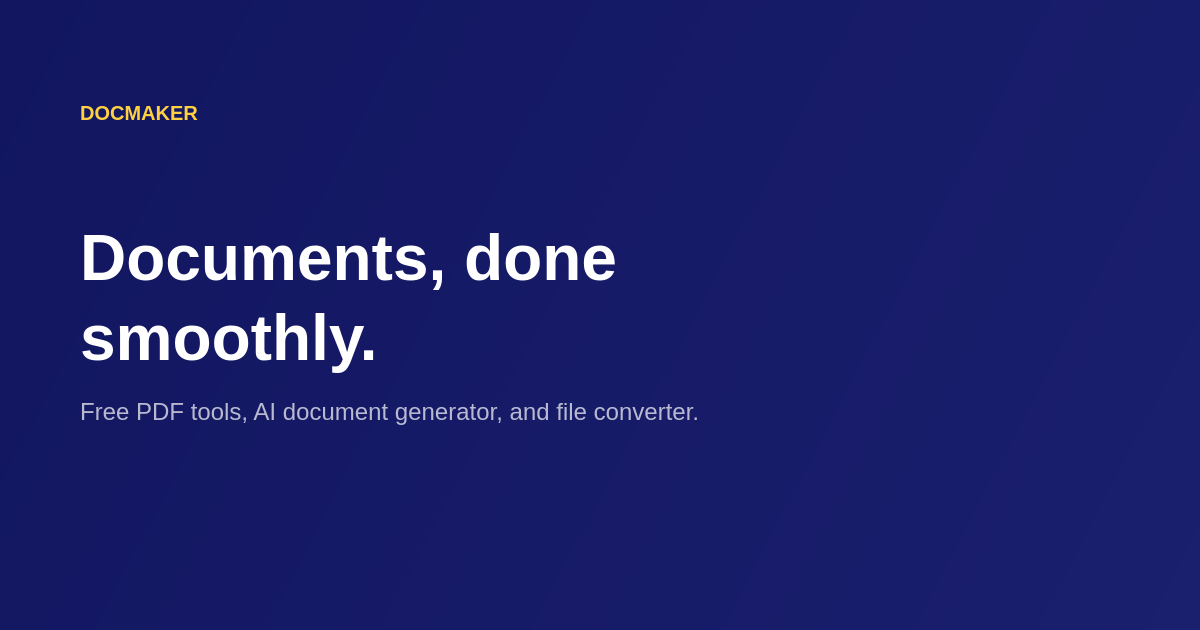
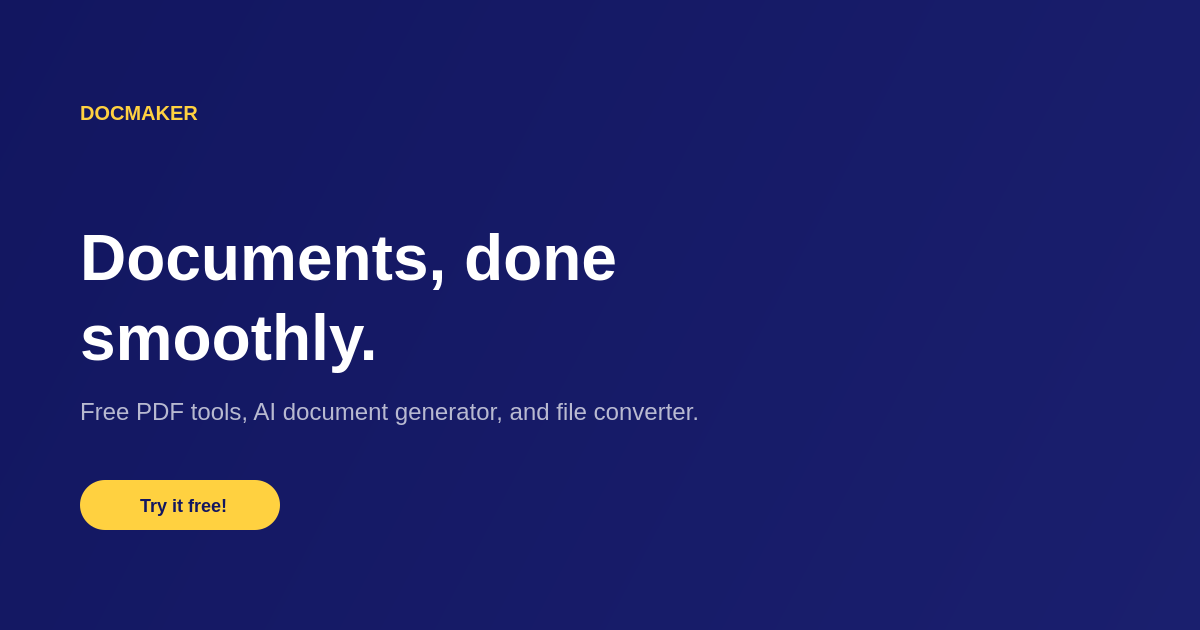
Fix OG warnings: short title, short description, CTA in image, og:site_name

Changed region(s): [[0.0617, 0.754, 0.2467, 0.8444]]

diff --git a/web/src/app/layout.tsx b/web/src/app/layout.tsx
@@ -9,10 +9,10 @@ const playfair = Playfair_Display({ subsets: ["latin"], variable: "--font-playfa
 
 export const metadata: Metadata = {
   title: {
-    default: "Docmaker — Free PDF Tools, AI Document Generator, File Converter",
+    default: "Docmaker — Documents, Done Smoothly",
     template: "%s | Docmaker",
   },
-  description: "Generate, convert, edit, sign, and compress documents for free. AI-powered document tools with no limits, no watermarks, no account required. 200+ format conversions.",
+  description: "Generate, convert, edit, and sign documents for free. No limits, no watermarks. AI-powered.",
   keywords: [
     "free pdf tools", "ai document generator", "free file converter",
     "merge pdf free", "compress pdf free", "ocr free", "e-sign free",
@@ -31,16 +31,16 @@ export const metadata: Metadata = {
     icon: "/favicon.svg",
   },
   openGraph: {
-    title: "Docmaker — Free PDF Tools & AI Document Generator",
-    description: "Generate, convert, edit, sign documents for free. No limits, no watermarks. AI-powered.",
+    title: "Docmaker — Documents, Done Smoothly",
+    description: "Generate, convert, edit, and sign documents for free. No limits, no watermarks. AI-powered.",
     url: "https://docmaker.io",
     siteName: "Docmaker",
     images: [
       {
-        url: "https://docmaker.io/api/og?title=Docmaker&subtitle=Free+PDF+Tools+%26+AI+Document+Generator",
+        url: "https://docmaker.io/api/og?title=Docmaker&subtitle=Try+it+free!",
         width: 1200,
         height: 630,
-        alt: "Docmaker - Free PDF Tools & AI Document Generator",
+        alt: "Docmaker - Documents, Done Smoothly",
       },
     ],
     locale: "en_US",
@@ -48,9 +48,9 @@ export const metadata: Metadata = {
   },
   twitter: {
     card: "summary_large_image",
-    title: "Docmaker — Free PDF Tools & AI Document Generator",
-    description: "Generate, convert, edit, sign documents for free. No limits, no watermarks.",
-    images: ["https://docmaker.io/api/og?title=Docmaker&subtitle=Free+PDF+Tools+%26+AI+Document+Generator"],
+    title: "Docmaker — Documents, Done Smoothly",
+    description: "Generate, convert, edit, and sign documents for free. No limits, no watermarks. AI-powered.",
+    images: ["https://docmaker.io/api/og?title=Docmaker&subtitle=Try+it+free!"],
   },
   robots: {
     index: true,
